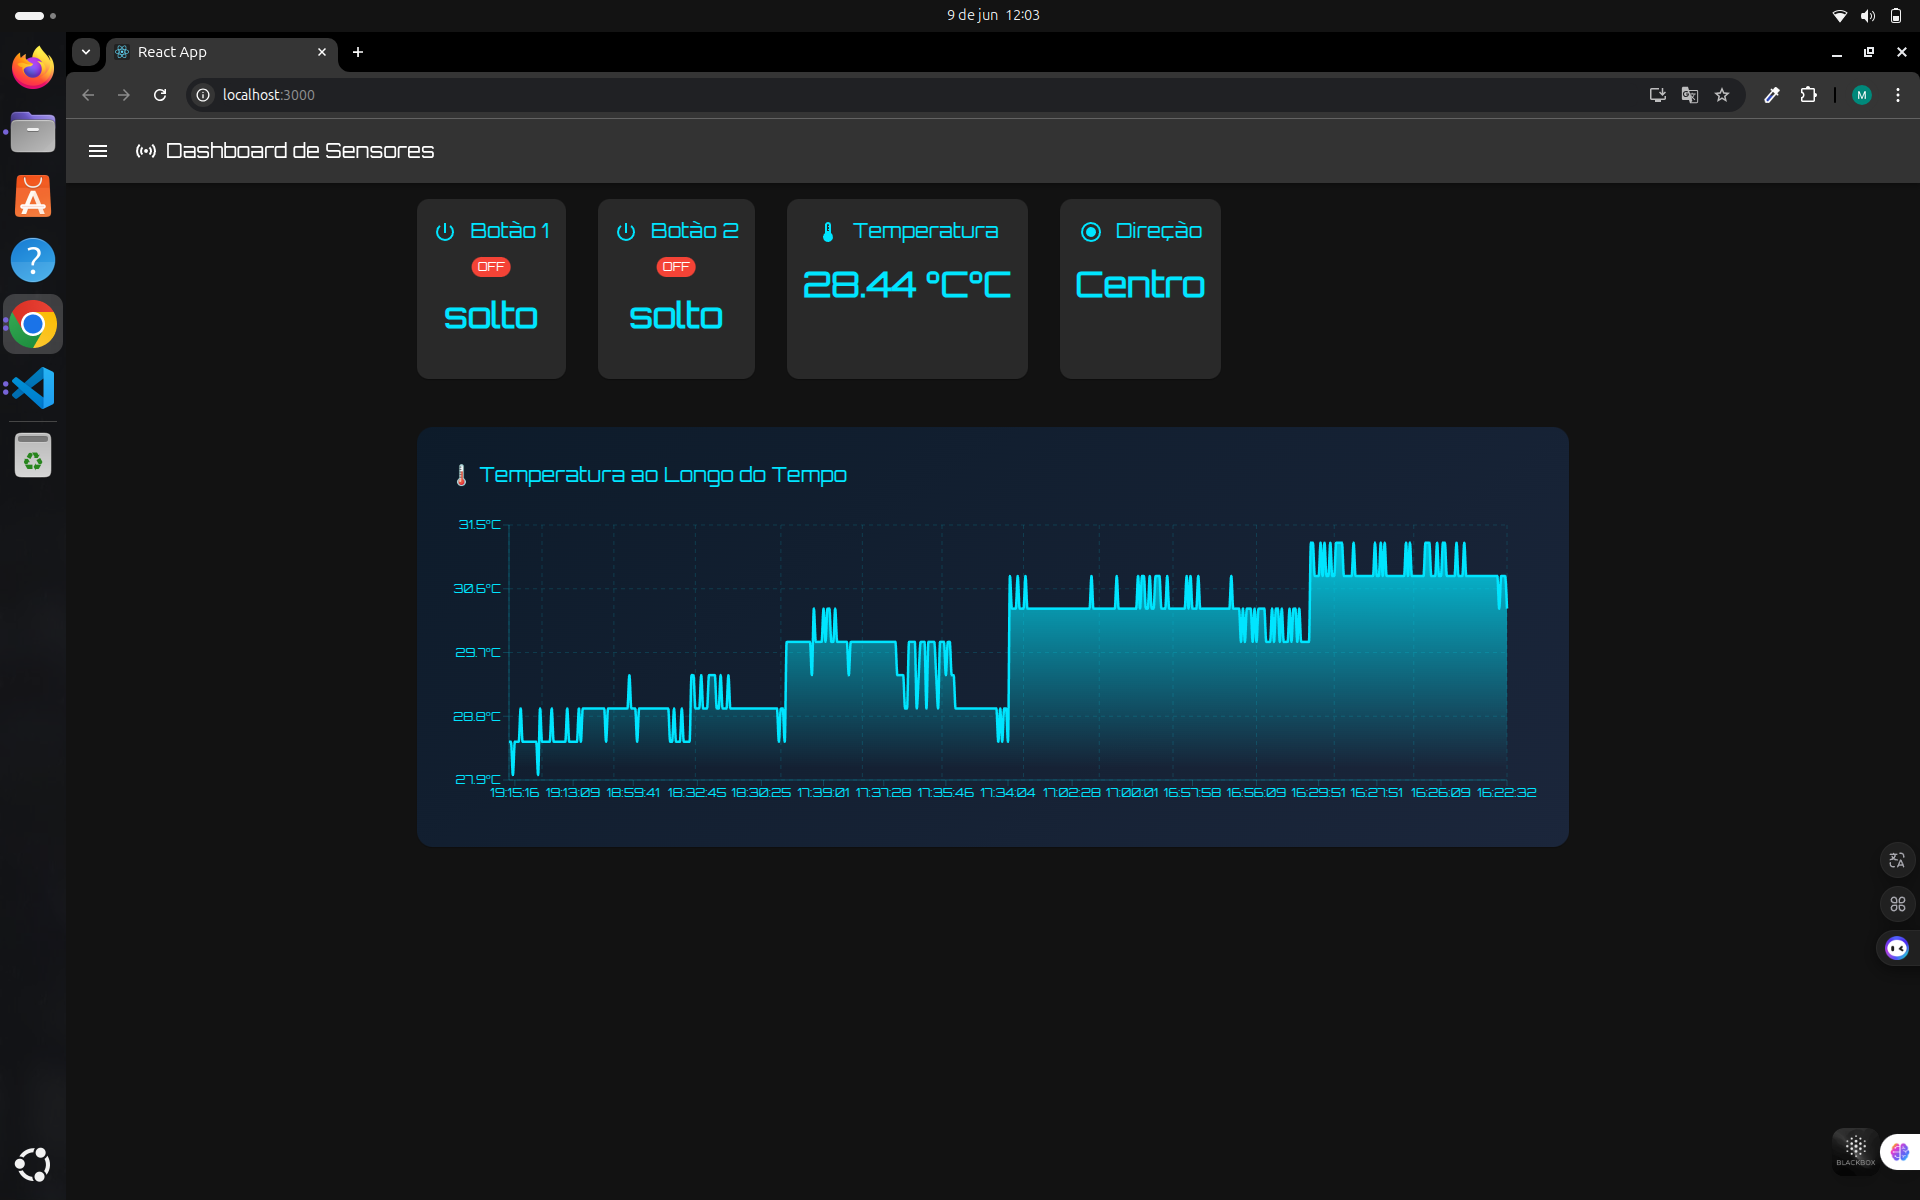
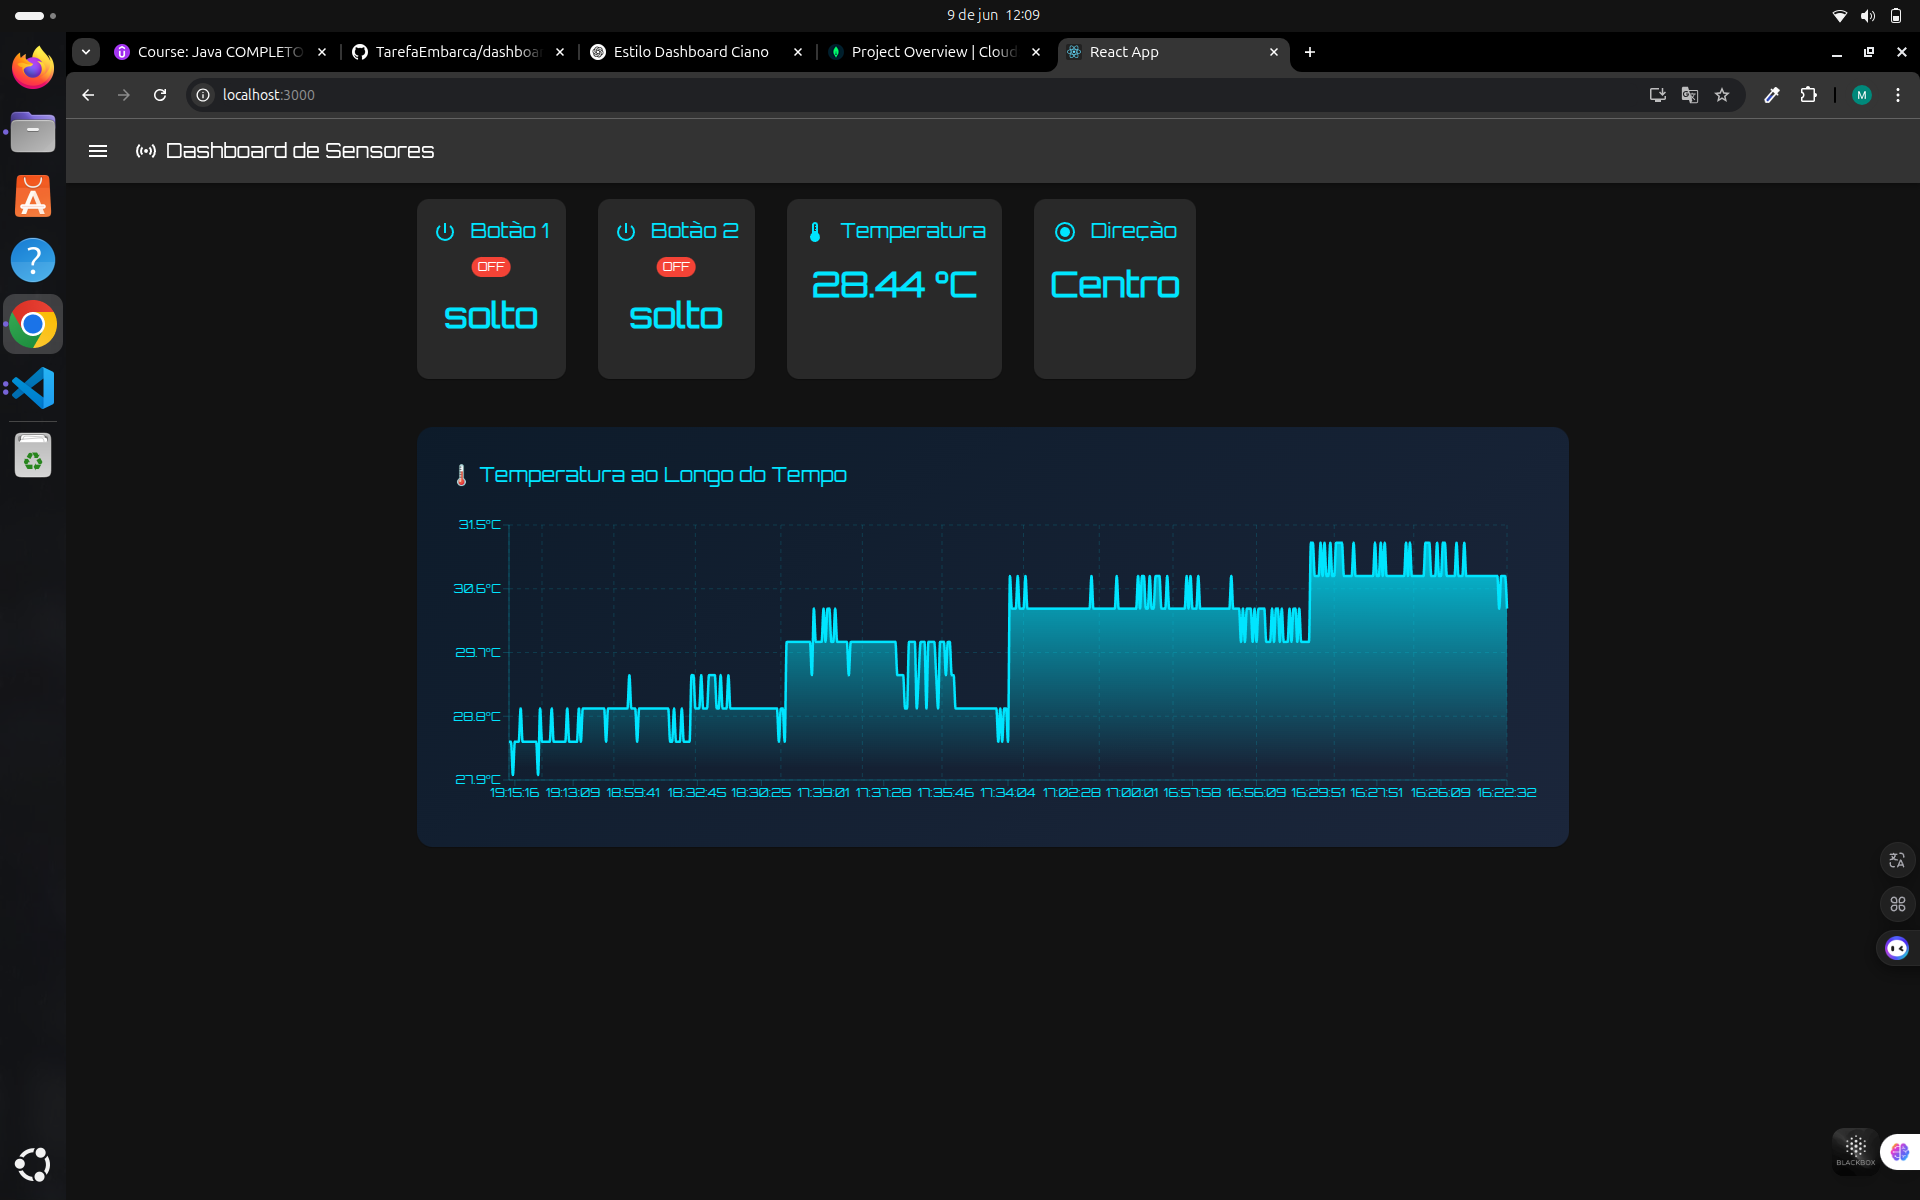
Remover o símbolo de grau da temperatura exibida no dashboard

diff --git a/dashboardsensores/src/App.js b/dashboardsensores/src/App.js
@@ -125,7 +125,7 @@ export default function App() {
                         <ThermostatIcon sx={{ verticalAlign: 'middle', mr: 1 }} /> Temperatura
                       </Typography>
                       <Typography variant="h4" sx={{ mt: 2 }}>
-                        {ultimo ? `${ultimo.temperatura}°C` : '--'}
+                        {ultimo ? `${ultimo.temperatura}` : '--'}
                       </Typography>
                     </CardContent>
                   </Card>
